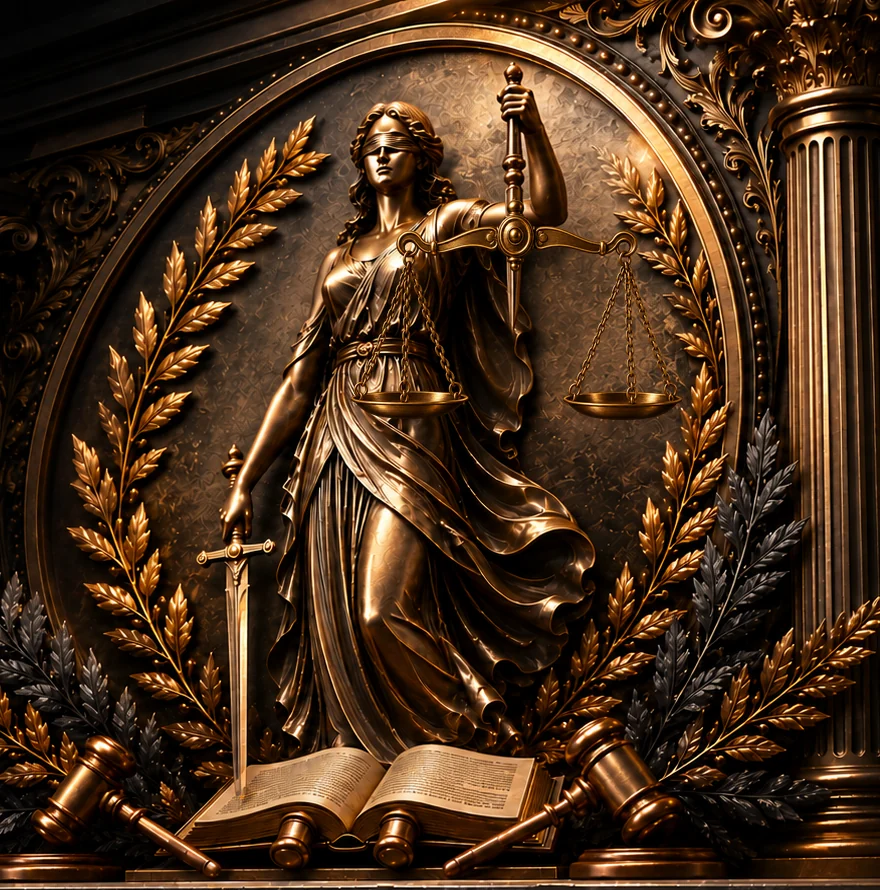
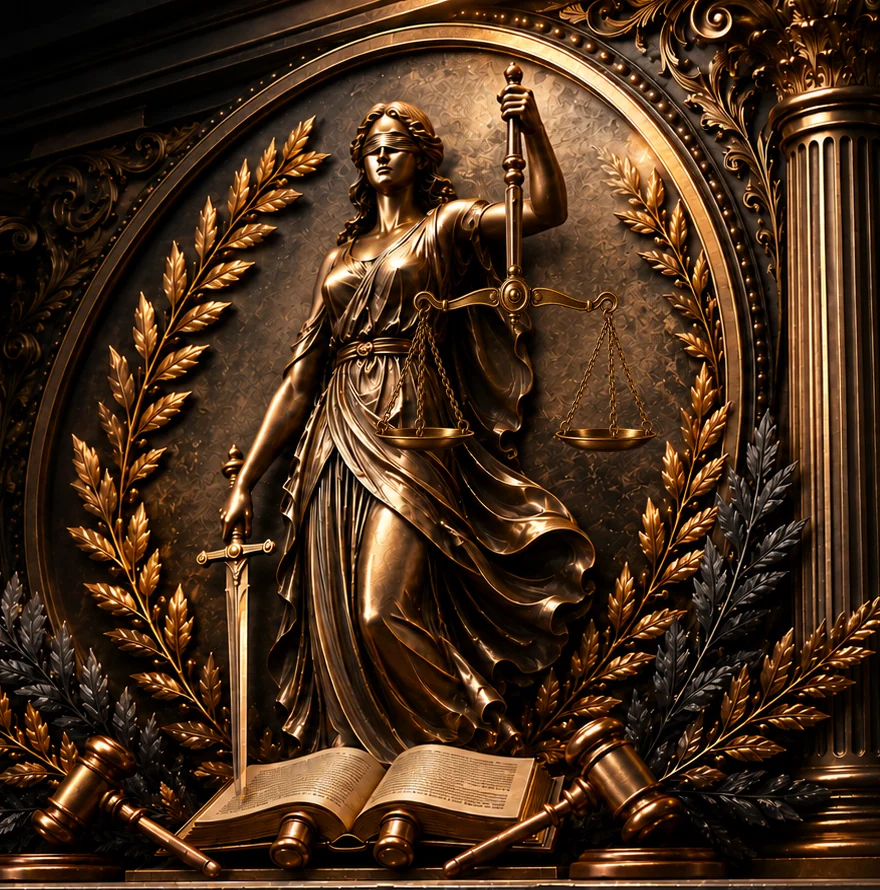
fix: shrink the balance again and centre it on the blade
Down to 0.23 and the boss to y=275, a notch smaller and slightly lower.

The horizontal placement was guesswork before: a 0.077 lean factor that
pushed the boss right as it went down. Measuring the blade's silhouette
edges — not its brightness, which is biased by the highlight running down
one side — puts the axis at a near-constant x=1290 through this range, so
the lean model was simply wrong.

Sitting exactly on 1290 still read as slightly left, which the geometry
says it is not: the rendered boss centres on 1290.0 against a blade axis
of 1290.2. The lit right edge pulls the eye, so the placement is 1294 —
four pixels right of true centre, between the two positions that read as
off in either direction.

build-hero.py now takes the boss x as a third argument instead of deriving
it from the lean.

Changed region(s): [[0.3989, 0.2124, 0.767, 0.5157]]

diff --git a/redesign-home-polish.css b/redesign-home-polish.css
@@ -321,7 +321,7 @@ body{
    noktalarında hizalama kendiliğinden tutar. Mesnet, kolun orta göbeği.
    ------------------------------------------------------------------------ */
 .hero__scales{display:none}
-.hero__scales img{width:100%;height:100%;display:block;transform-origin:77.45% 23.72%}
+.hero__scales img{width:100%;height:100%;display:block;transform-origin:77.39% 30.42%}
 
 @keyframes terazi-salinim{
   0%{transform:rotate(0deg)}
@@ -387,6 +387,6 @@ body{
     display:block;position:absolute;pointer-events:none;
     width:100%;aspect-ratio:880/890;left:0;top:0;
   }
-  .hero__scales img{transform-origin:58.52% 23.96%}
+  .hero__scales img{transform-origin:58.41% 31.04%}
 }
 

diff --git a/tools/build-hero.py b/tools/build-hero.py
@@ -1,7 +1,7 @@
 # -*- coding: utf-8 -*-
 """Hero katmanlarini uretir.
 
-  python tools/build-hero.py [scale] [boss_y]
+  python tools/build-hero.py [scale] [boss_y] [boss_x]
 
 Kaynaklar assets/_source icinde. Terazi ayri bir katman oldugu icin
 sahne (terazisiz), terazi (seffaf) ve ikisinin birlesigi ayri ayri
@@ -15,10 +15,10 @@ BOSS_Y = int(sys.argv[2]) if len(sys.argv) > 2 else 210
 
 BOSS = (1009, 51)          # sarkac.png'de gobegin tepesi
 BOSS_MID = 100             # gobegin dikey merkezi
-LEAN = 0.077               # sopa asagi indikce saga kayiyor (~4.4 derece)
+BLADE_X = 1294             # kilic silueti 1290,2; parlama gozu sagà çektigi icin 4px sag
 MOBILE_CROP = (780, 10, 1660, 900)
 
-BOSS_X = 1292 + round((BOSS_Y - 172) * LEAN)
+BOSS_X = int(sys.argv[3]) if len(sys.argv) > 3 else BLADE_X
 
 A = Image.open('assets/_source/hero-katman-a-terazisiz.png').convert('RGBA')
 B = Image.open('assets/_source/hero-katman-b-terazi.png').convert('RGBA')
